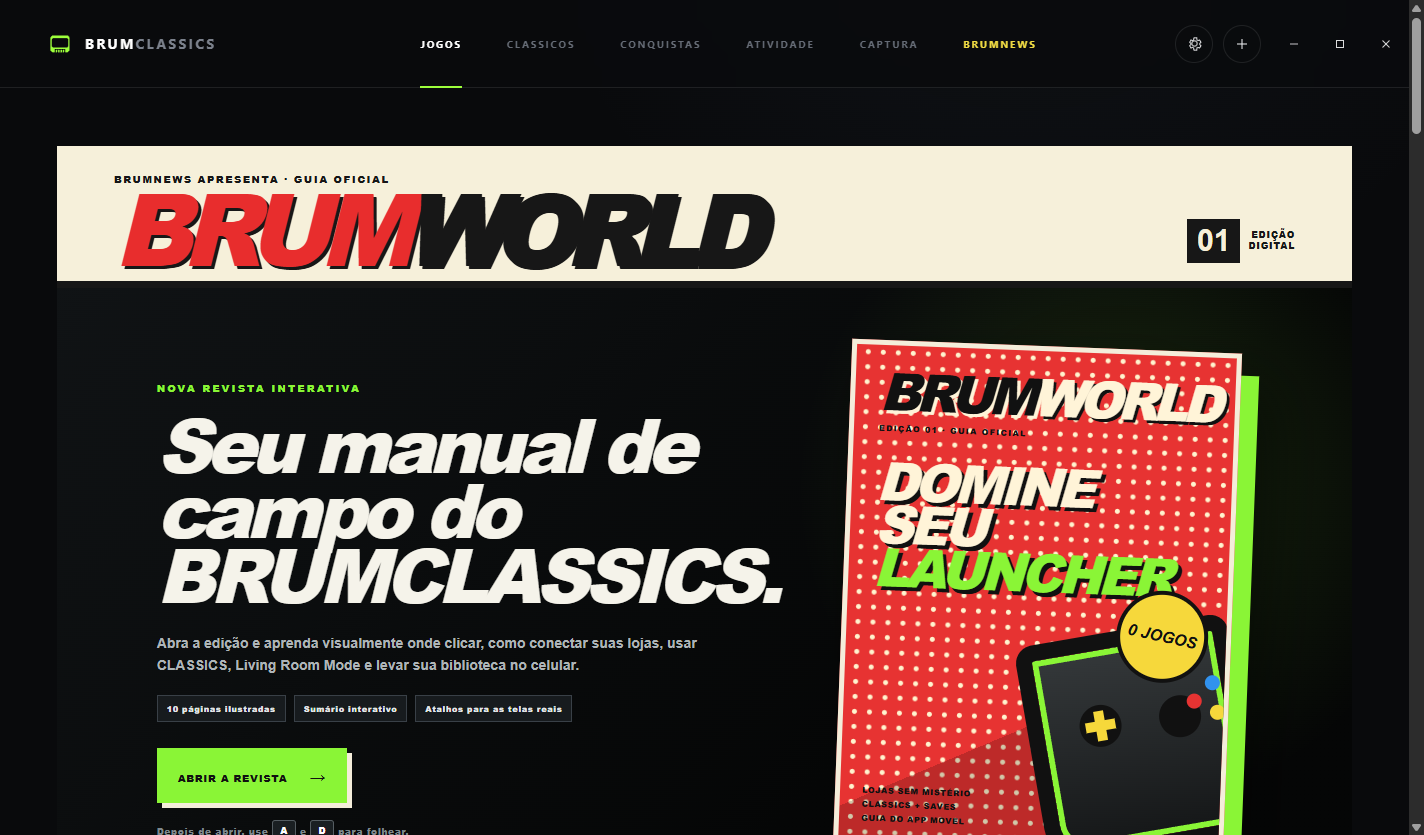
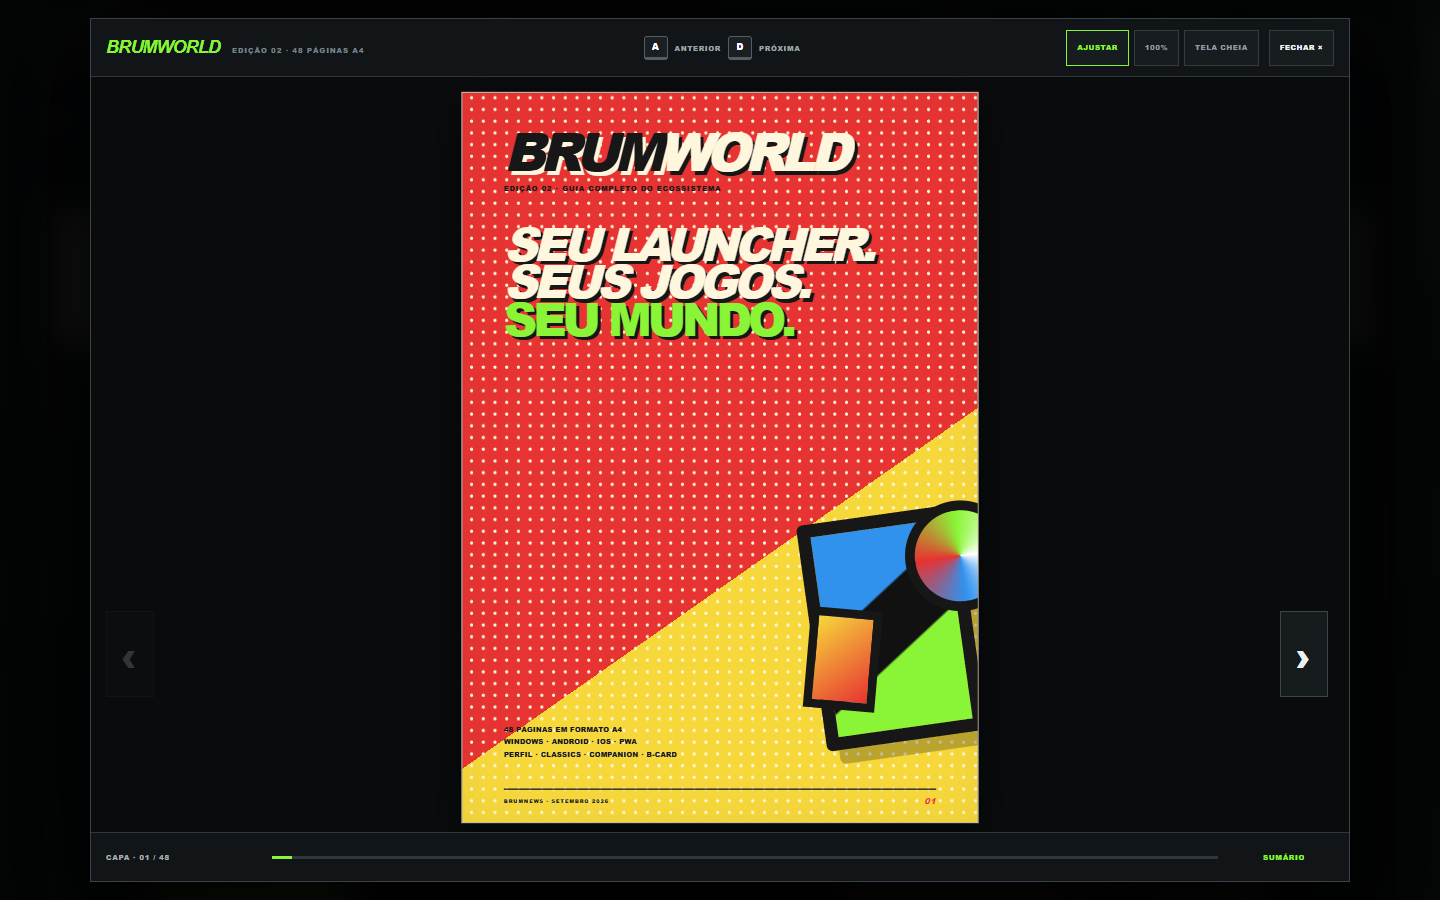
release: publish A4 BRUMWORLD 1.74.2

diff --git a/CHANGELOG.md b/CHANGELOG.md
@@ -1,5 +1,18 @@
 # Histórico de versões
 
+## Launcher 1.74.2 — BRUMWORLD em formato A4
+
+- A BRUMWORLD foi reconstruída na proporção real de uma folha A4 e ampliada de 16 para 48 páginas.
+- Capa, editorial, sumário em duas partes, 43 capítulos e contracapa agora formam uma revista completa e navegável.
+- O guia reúne biblioteca persistente, coleções, jogos não oficiais, conexões, instalações, conquistas, sessões, controles, CLASSICS, RetroArch, RetroAchievements, Living Room, Console no PC, saves, diagnóstico e atualização.
+- Perfil do Jogador, dados pertencentes ao perfil, foto, portabilidade e segurança recebem páginas próprias.
+- Android, iOS e PWA são documentados junto do pareamento, uso offline, conflitos, conquistas e notificações.
+- A relação entre ROM, RetroArch, identidade do jogo e perfil móvel ganhou um fluxo dedicado.
+- BRUMCOMPANION, B-CARD e BRUMMOMENTS agora possuem capítulos próprios.
+- O modo Ajustar preserva toda a folha em resoluções diferentes; o modo 100% mantém 794 × 1123 pixels e a configuração de reduzir animações não interfere mais no dimensionamento.
+- Botões da revista continuam abrindo as telas reais do launcher, sem criar menus duplicados.
+- Android 0.20.0 e iOS 0.11.0 permanecem compatíveis e não receberam alterações de código nesta atualização do launcher Windows.
+
 ## Launcher 1.74.1 — biblioteca estável durante a rolagem
 
 - Bibliotecas grandes deixam de desmontar e reconstruir blocos de cartões conforme o usuário sobe ou desce.

diff --git a/releases/v1.74.2/RELEASE-NOTES.md b/releases/v1.74.2/RELEASE-NOTES.md
@@ -1,0 +1,25 @@
+# BRUMCLASSICS OFICIAL 1.74.2
+
+Esta versão transforma a BRUMWORLD em uma revista A4 completa sobre todo o ecossistema BRUMCLASSICS.
+
+## BRUMWORLD — Edição 02
+
+- 48 páginas na proporção real de uma folha A4.
+- Capa, editorial, sumário em duas partes, 43 capítulos e contracapa.
+- Navegação por botões, teclado, sumário e barra de progresso.
+- Modos Ajustar, 100% e Tela cheia.
+- Escala preservada em janelas grandes e pequenas, inclusive quando o Windows reduz animações.
+
+## Conteúdo incluído
+
+- Biblioteca, capas, coleções, jogos não oficiais e Perfil do Jogo.
+- Lojas, Família Steam, monitoramento de instalações e diagnóstico de conexões.
+- Conquistas oficiais e manuais, pontos, atividade, sessões e Central do Jogador.
+- Perfil do Jogador, foto, dados pessoais, exportação, importação e segurança.
+- Controles, CLASSICS, RetroArch, saves, RetroAchievements e Living Room.
+- Console no PC, visuais, Save Vault, backup, sistema e atualizações.
+- Android, iOS e PWA, pareamento, offline, conflitos e conquistas móveis.
+- Emulação móvel e o fluxo ROM → RetroArch → identidade → perfil.
+- BRUMCOMPANION, B-CARD, BRUMMOMENTS e notificações.
+
+Android 0.20.0 e iOS 0.11.0 continuam compatíveis e não foram alterados.

diff --git a/releases/v1.74.2/VALIDACAO.md b/releases/v1.74.2/VALIDACAO.md
@@ -1,0 +1,17 @@
+# Validação da versão 1.74.2
+
+- Executável: `BRUMCLASSICS OFICIAL.exe`
+- ProductVersion: `1.74.2`
+- Tamanho: `386069043` bytes
[1 lines of base64/hex data omitted]
+- Testes automatizados: `650 aprovados`, `0 falhas`
+- Verificação sintática: aprovada
+- Páginas BRUMWORLD: `48`
+- Proporção validada: `210:297`
+- Modo Ajustar: aprovado em `1440 × 900` e `1280 × 720`
+- Modo 100%: `794 × 1123` pixels
+- Páginas com conteúdo interno cortado: nenhuma
+- Capturas verificadas: capa, sumário, perfil, móvel, emulação móvel, BRUMCOMPANION, B-CARD e contracapa
+- Build: Windows portátil x64, Electron 43.4.0
+
+Os aplicativos Android 0.20.0 e iOS 0.11.0 não tiveram código ou protocolo alterado nesta versão.
